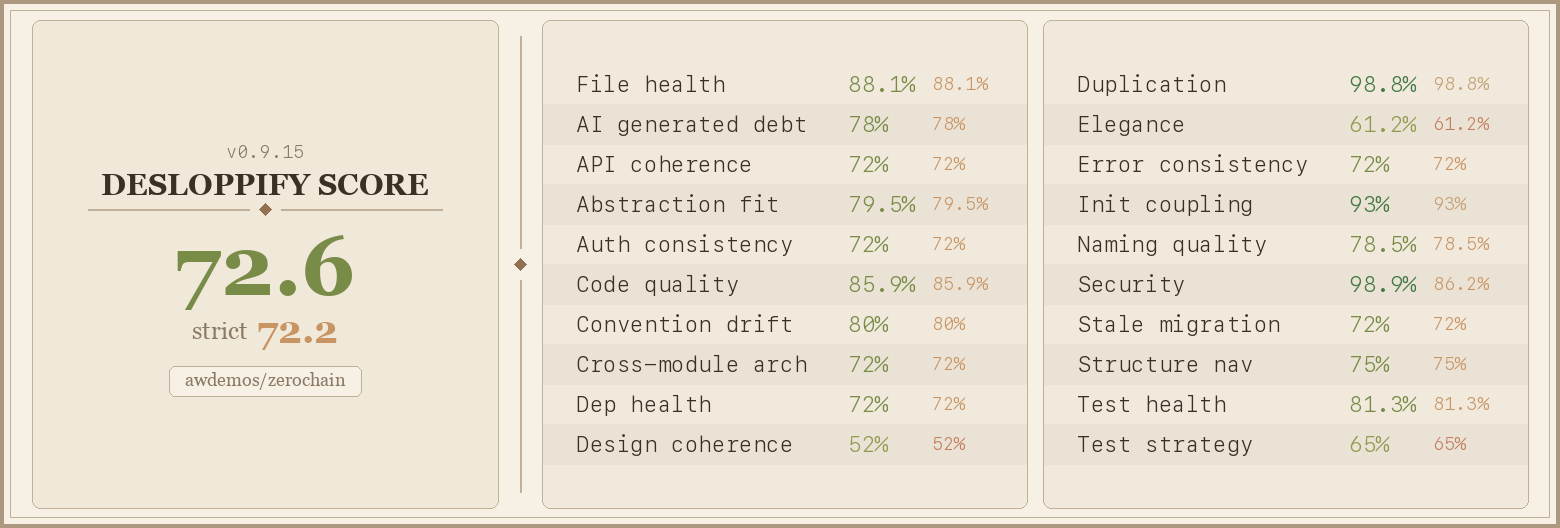
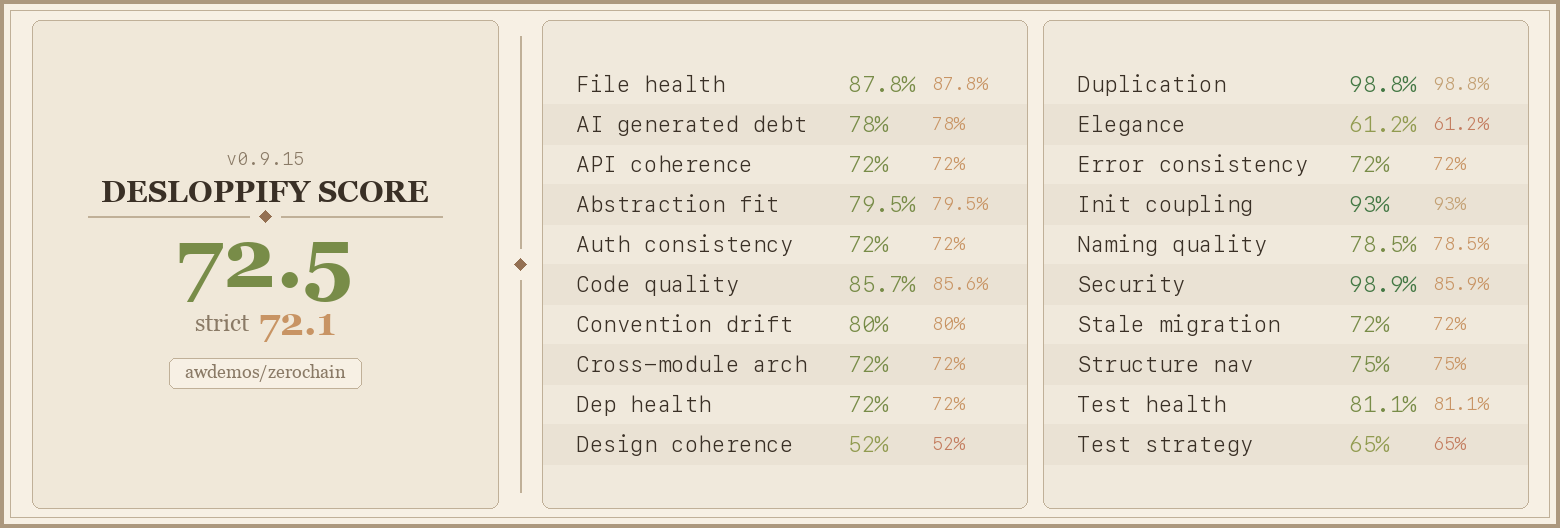
desloppify review fixes: dead uuid dep, InitWorkflowParams re-export, FsError variant, NoopCow moved
- Remove dead workspace dependency
- Re-export InitWorkflowParams at zerochain-daemon crate boundary
- Add DaemonError::Fs variant preserving FsError source structure
- Move NoopCow from daemon to zerochain-fs crate

Changed region(s): [[0.0923, 0.4545, 0.2462, 0.7576], [0.0615, 0.2727, 0.2769, 0.4242], [0.5538, 0.1515, 0.5846, 0.1818]]

diff --git a/crates/zerochain-daemon/src/state.rs b/crates/zerochain-daemon/src/state.rs
@@ -101,30 +101,13 @@ fn resolve_cow_backend(workspace_root: &Path) -> Box<dyn zerochain_fs::CowPlatfo
         }
         "none" | "disabled" => {
             tracing::info!("CoW backend: disabled by ZEROCHAIN_COW_BACKEND");
-            Box::new(NoopCow)
+            Box::new(zerochain_fs::NoopCow)
         }
         _ => zerochain_fs::detect_backend(workspace_root),
     }
 }
 
 const MAX_SNAPSHOTS_PER_WORKFLOW: usize = 10;
-
-struct NoopCow;
-
-#[async_trait::async_trait]
-impl zerochain_fs::CowPlatform for NoopCow {
-    async fn snapshot(&self, _source_dir: &Path, _target_dir: &Path) -> zerochain_fs::Result<()> {
-        Ok(())
-    }
-
-    fn is_available(&self) -> bool {
-        false
-    }
-
-    fn name(&self) -> &str {
-        "disabled"
-    }
-}
 
 impl AppState {
     pub fn new(workspace_root: &Path) -> AppState {

diff --git a/crates/zerochain-fs/src/cow.rs b/crates/zerochain-fs/src/cow.rs
@@ -15,6 +15,24 @@ pub struct DirectoryCow;
 
 pub struct BtrfsCow;
 
+/// A no-op CoW backend that silently succeeds.
+pub struct NoopCow;
+
+#[async_trait::async_trait]
+impl CowPlatform for NoopCow {
+    async fn snapshot(&self, _source_dir: &Path, _target_dir: &Path) -> Result<()> {
+        Ok(())
+    }
+
+    fn is_available(&self) -> bool {
+        false
+    }
+
+    fn name(&self) -> &str {
+        "disabled"
+    }
+}
+
 pub fn detect_backend(workspace_path: &Path) -> Box<dyn CowPlatform> {
     let btrfs = BtrfsCow;
     if btrfs.is_available() && BtrfsCow::is_btrfs_filesystem(workspace_path) {

diff --git a/crates/zerochain-daemon/src/error.rs b/crates/zerochain-daemon/src/error.rs
@@ -49,18 +49,9 @@ pub enum DaemonError {
 
     #[error("container execution error: {0}")]
     ContainerExec(String),
-}
 
-impl From<zerochain_fs::error::FsError> for DaemonError {
-    fn from(err: zerochain_fs::error::FsError) -> Self {
-        match err {
-            zerochain_fs::error::FsError::Io { path, source } => DaemonError::Io { path, source },
-            other => DaemonError::Io {
-                path: PathBuf::from("<fs>"),
-                source: std::io::Error::other(other.to_string()),
-            },
-        }
-    }
+    #[error("filesystem error: {0}")]
+    Fs(#[from] zerochain_fs::error::FsError),
 }
 
 impl DaemonError {

diff --git a/crates/zerochain-daemon/src/lib.rs b/crates/zerochain-daemon/src/lib.rs
@@ -7,4 +7,4 @@ pub mod state;
 
 // Re-export primary public API types so consumers don't reach into submodules.
 pub use error::DaemonError;
-pub use state::AppState;
+pub use state::{AppState, InitWorkflowParams};

diff --git a/crates/zerochain-fs/src/lib.rs b/crates/zerochain-fs/src/lib.rs
@@ -8,5 +8,5 @@ pub use atomic::{
     acquire_lock, clean_output, clear_executing, is_complete, is_error, is_executing, is_locked,
     mark_complete, mark_error, mark_executing, write_atomic, LockGuard,
 };
-pub use cow::{detect_backend, BtrfsCow, CowPlatform, DirectoryCow};
+pub use cow::{detect_backend, BtrfsCow, CowPlatform, DirectoryCow, NoopCow};
 pub use error::{FsError, Result};

diff --git a/crates/zerochain-server/src/routes.rs b/crates/zerochain-server/src/routes.rs
@@ -17,7 +17,7 @@ use zerochain_core::workflow::is_valid_workflow_name;
 
 use crate::auth;
 use crate::state::ServerState;
-use zerochain_daemon::state::InitWorkflowParams;
+use zerochain_daemon::InitWorkflowParams;
 
 #[derive(Deserialize)]
 pub struct InitWorkflowRequest {